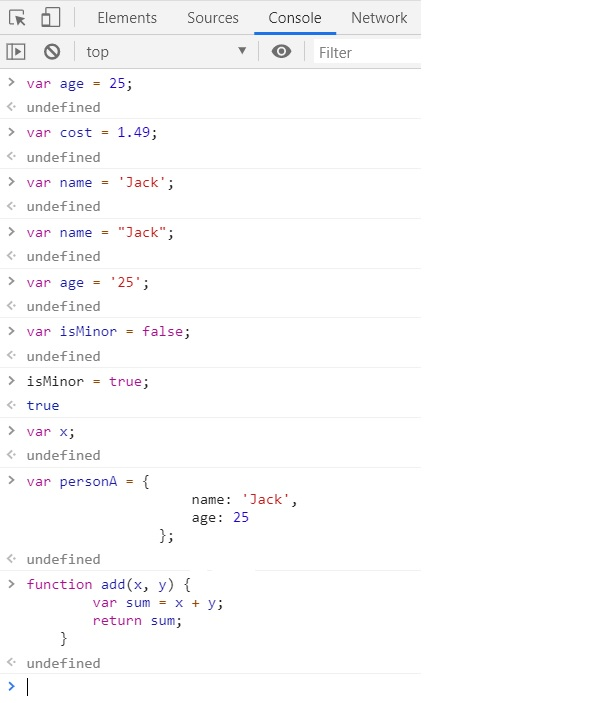
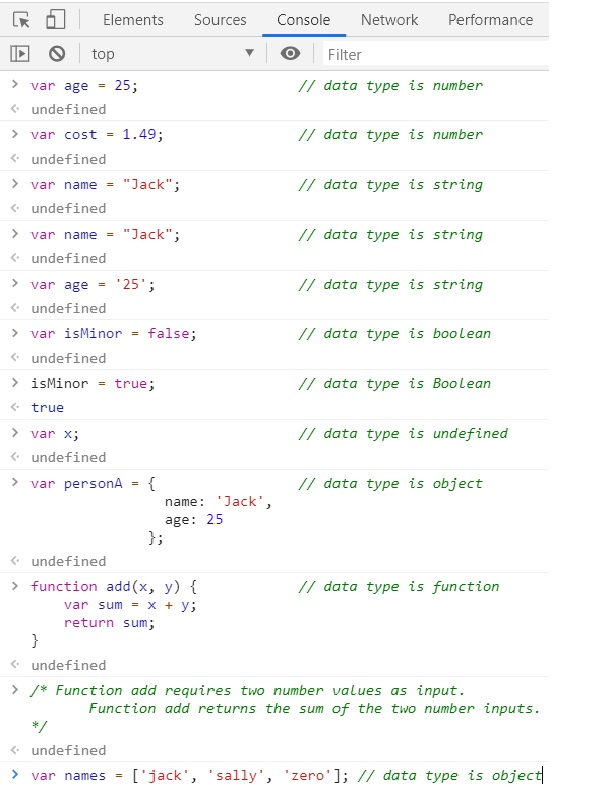
Web Fundamentals JS Varibable contern
Finished with varaible content addition.

Modified code element style to match style of when code is in a pre tag (black texst on white background. The defauult style was red font against the page background color. The change makes the inline code (not within a pre node) more readable.

Updated images for varaibles.

diff --git a/js.html b/js.html
@@ -232,6 +232,8 @@
 	/* Function add requires two number values as input.
 	   Function add returns the sum of the two number inputs.
 	*/	
+	
+	var name = ['jack', 'sally', 'zero'];	// data type is object
 							</code></pre>
 							<figcaption class="figure-caption text-left">Code 1: Declaring variables and setting values (declare_variables.js).</figcaption>
 							</figure>
@@ -241,12 +243,38 @@
 								<figcaption class="figure-caption text-left">Figure 1: Results of entering statements from Code 1 into Console window.</figcaption>
 							</figure>
 							<p>
-								The first thing we notice in Code 1 is how we declare a variable and assign it a value. We use the var keyword along with a unique variable name to declare the variable. We assign a value to the variable by including the equals (=) character and supplying the value and including the semi-colon (;) statement ending character to signify we are done writing the statement. The first two entries declare variables age and cost; the age variable holds a whole number (integer) value of 25, and the cost variable holds a decimal value of 1.48. Next to each statement in Code 1, there is a line of text which identifies the data type of the variable on that line. This text begins with 2 forward slashes (//). The slashes denote a comment. JavaScript does not execute code in a statement. Comments are helpful to include descriptions of what is happening in the code. Also, if we look at Figure 1, then we will see the Console writes undefined  on each line after we enter a statement. We can disregard this behavior for now as it is not relevant to what we are exploring.
+								The first thing we notice in Code 1 is how we declare a variable and assign it a value. We use the var keyword along with a unique variable name to declare the variable. We assign a value to the variable by including the equals (=) character and supplying the value and including the semi-colon (;) statement ending character to signify we are done writing the statement. The first two entries declare variables age and cost; the age variable holds a whole number (integer) value of 25, and the cost variable holds a decimal value of 1.48. Next to each statement in Code 1, there is a line of text which identifies the data type of the variable on that line. This text begins with 2 forward slashes (//). The slashes denote a comment. JavaScript does not execute code in a statement. Comments are helpful to include descriptions of what is happening in the code. Also, if we look at Figure 1, then we will see the Console writes "undefined" on each line after we enter a statement. We can disregard this behavior for now as it is not relevant to what we are exploring.
 							</p>
 							<p>
-								The next 3 entries declare variables name and age. We first declare the variable name and assign the value Jack with single-quotation marks. Next we redeclare the variable name and assign it the value Jack with double-quotation marks. The use of either single or double quotation marks indicates the data type is a string. We can use either form of declaring a string variable value. However, if our string contains an apostrophe (similar to a single quotation mark, then it will be necessary to declare the variable's value with double-quotation marks so JavaScript. For example, if our value was O'Brien and we assigned the value using single-quotation marks, JavaScript will become confused and declare a syntax error because it does not know how to handle the third single-quotation mark. Also notice that we redeclared the variable age and assigned the value 25 in double-quotation marks. Even though we know 25 is a number, JavaScript thinks it is a string because we enclosed it in quotation marks.
+								The next 3 entries declare variables name and age. We first declare the variable name and assign the value Jack with single-quotation marks. Next we redeclare the variable name and assign it the value Jack with double-quotation marks. The use of either single or double quotation marks indicates the data type is a string. We can use either form of declaring a string variable value. However, if our string contains an apostrophe (like a single quotation mark, then it will be necessary to declare the variable's value with double-quotation marks so JavaScript. For example, if our value was O'Brien and we assigned the value using single-quotation marks, JavaScript will become confused and declare a syntax error because it does not know how to handle the third single-quotation mark. Also notice that we redeclared the variable age and assigned the value 25 in double-quotation marks. Even though we know 25 is a number, JavaScript thinks it is a string because we enclosed it in quotation marks.
 							</p>
-							
+							<p>
+								The next two lines deal with boolean data type. On the first line, we declare a boolean named isMinor and set the value to false. We give isMinor a new value of true on the next line. This example serves two purposes. First, we see how to declare a boolean variable and give it a value. Second, we see that we do not have to redeclare a variable to give it a new value; we can just use the variable name and assign a new value to it. There is an exception if we declare isMinor with the const keyword. instead of the var keyword (cost isMinor = false; instead of var isMinor = false;). Remember when I said const is short for constant? Well, if we use the const keyword, then we can set the variable value once and then the variable's value becomes constant. In other words, we cannot reassign a value to a variable declared with const after we set its value. We can assign isMinor to false, but we cannot reassign it to true.
+							</p>
+							<p>
+								Next, we declare a variable named x. Notice that we did not assign a value to x. We do not have to give variables as soon as we declare them. We can declare a variable now and assign it a value later. When we declare a variable but not assign it a value, the variable is undefined. This example is a demonstration of the undefined data type.
+							</p>
+							<p>
+								We see an example of an object on our next stop. Objects are representations of real world things and combine a list of properties of that thing. A person has a name and an age. A cruise ship has a name, and an owner, and a country of registration among other things. An object can have one property or many properties. In JavaScript, we set an objects value by setting all of the object properties within curly braces ( {} ). Each property has a name and a value which we separate by a colon (:), and we separate each property by a comma (,). We can refer to the object using the object variable name personA. If we want to get the value of one of personA's properties, we use the object name combined with a period (.) and the property name. We use personA.name to get personA's name value of Jack, and personA.age to the age value of 25.
+							</p>
+							<p>
+								The function data type is next in the tour. Functions are different than the previous items in not using the var keyword. To declare a function, we use the function keyword instead with a function name followed by input variables in parentheses ( () )and a set of curly braces ( {}  ). Also, there is not a requirement to end a function declaration with a semi-colon. It is possible to declare a variable and set the variable's value to a function which allows you to refer to the function by the variable name instead of the function name. In this case, you should use an ending semi-colon like you would for setting the value of any other variable. If we want to provide input to the function, then we include a variable for each input in the parentheses after the function name. Separate each input with a comma. Inputs to functions are not required. If there are no inputs, do not put anything in the parentheses. We do not need to use the var keyword for the inputs; all we need is a name for each input. If we want the function to provide a result, we use the return keyword to provide the result along with the value to output. In the function add example, the function expects 2 inputs and returns a value. The inputs could be any data type or mix of data types. if we use enter <code>add(2,4);</code> in our Console window, the console reports 6 as the result. If we enter <code>add("Hello ", "Cruisers");</code>, the Console reports "Hello Cruisers" as the result. Functions do not have to return values; maybe, they just do something to change the screen. If we do not need to output a value, we can ignore the return statement.
+							</p>
+							<p>
+								Following the function is a comment describing the function. Earlier we saw the way to add a comment is to preface our comment with two forward slashes.
+								However, here we have comments starting with one forward slash and an asterisk ( /* ) and ending with an asterisk and a forward slash ( */ ). This comment syntax allows us to write a comment over multiple lines when we have longer comments. The use of double forward slashes only allows comments on the same line where we use them. This comment syntax following the function declaration allows us to enter any text we want over any number of lines so long as the comments appear between the two asterisks.
+							</p>
+							<p>
+								Our last stop in our Code 1 visit is for a special type of object called an array. An array is a list of things such as a list of cruise passenger names, we declare an array using the var keyword with a name. We assign values to an array by enclosing them as a set of values separated by commas with square brackets ( [] ). We can use items of different data types in an array. For example, we could have a list of numbers or a list of names or a list of objects. We can even have a mix of data types in an array. Each item in an array has an integer index value starting with 0. We can use the array name and the index to get the value in the array's index position. For example, <code>names[0];</code> returns "jack", and <code>names[1];</code> returns "Sally", and <code>names[2];</code> returns "zero".
+							</p> 
+							<p>
+								One last thing we see in Code 1 is the comment after each declaration stating the data type of variable. We can use the typeof keyword followed by the name of the data item. Figure 2 shows a few examples of typeof for the object personA and the array names we used in Code 1. We enter <code>typeof personA;</code>or <code>typeof names;</code> into the Console window and see both variables are of object data type. If we enter <code>typeof personA.name;</code>, we see name is of string data type. If we enter <code>typeof personA.age;</code>, we see age is of number data type. Finally, entrring <code>typeof names[0];</code>shows the name[0] value "jack" is of string data type. Feel free to experiment with using typeof with the other variables we saw in Code 1, or any new variables you wish to declare.
+							</p>
+							<figure class="figure">
+								<img class="img-fluid border border-primary rounded-lg"
+								src="./images/variables_types.jpg" alt="Browser Console Tool showing the results of using typeof to get the data type.">
+								<figcaption class="figure-caption text-left">Figure 2: Browser Console Tool showing the results of using typeof to get the data type.</figcaption>
+							</figure>							
 						</div>
 					</div>
 				</section>

diff --git a/css/custom.css b/css/custom.css
@@ -24,6 +24,11 @@ body {
 	background-color: lightblue;
 }
 
+code {
+	background-color: white;
+	color: black;
+}
+
 div table {
 	border: #007bff solid 0.18em !important;
 }
